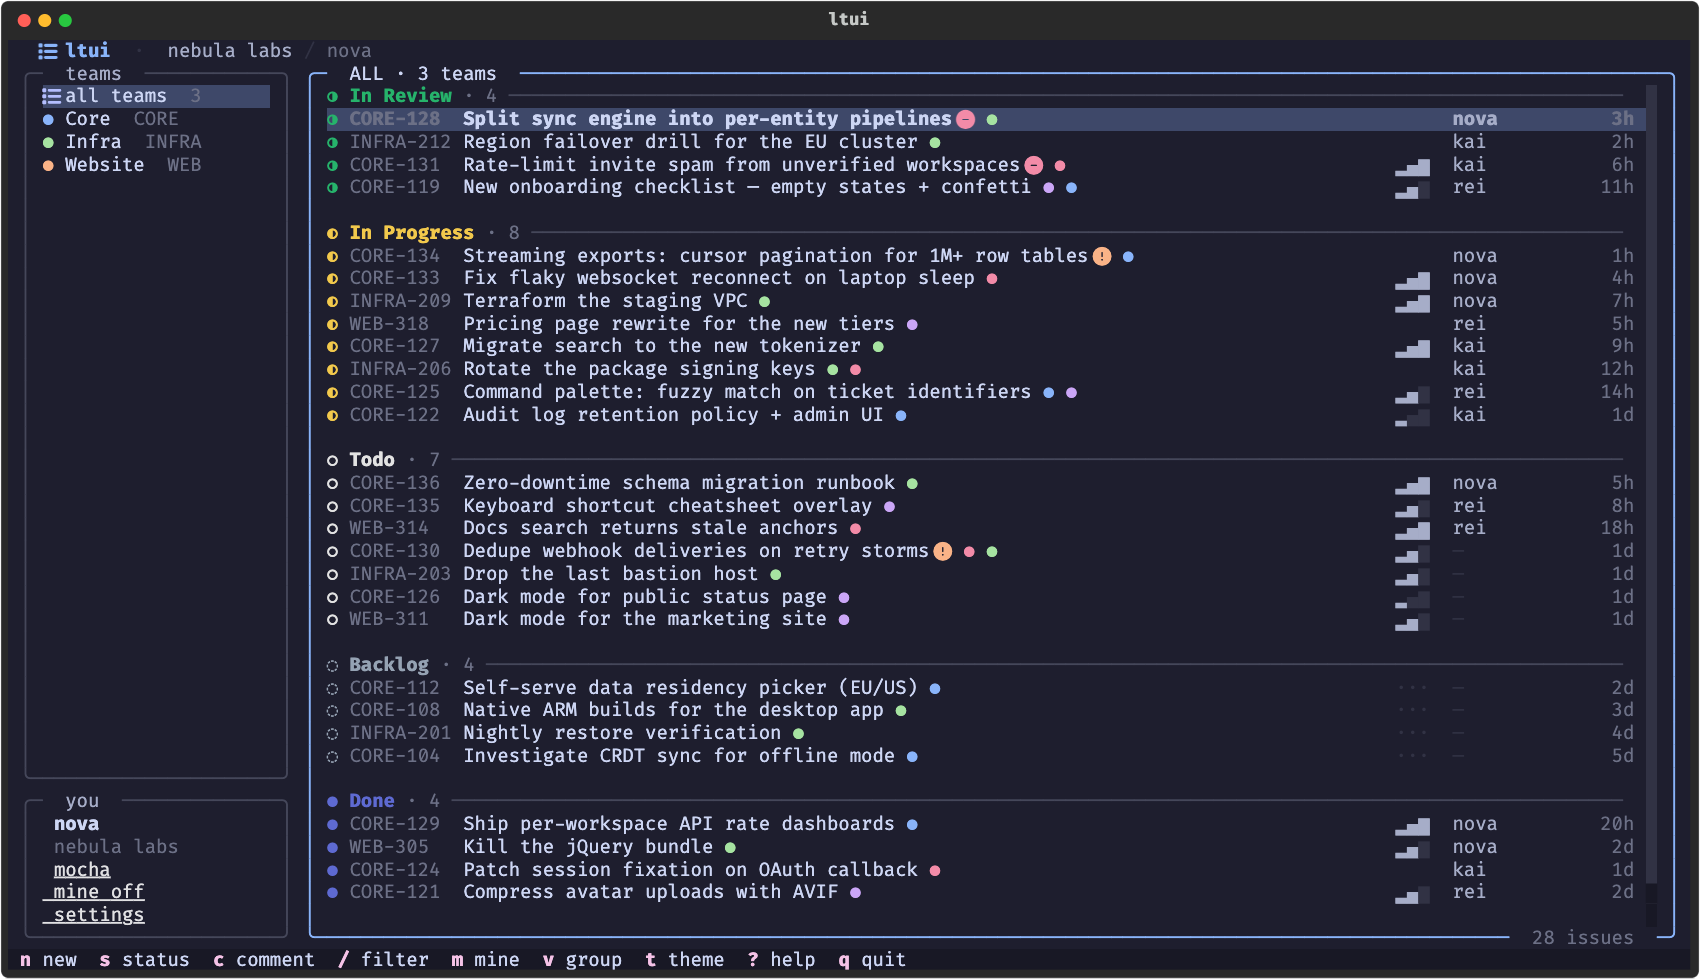
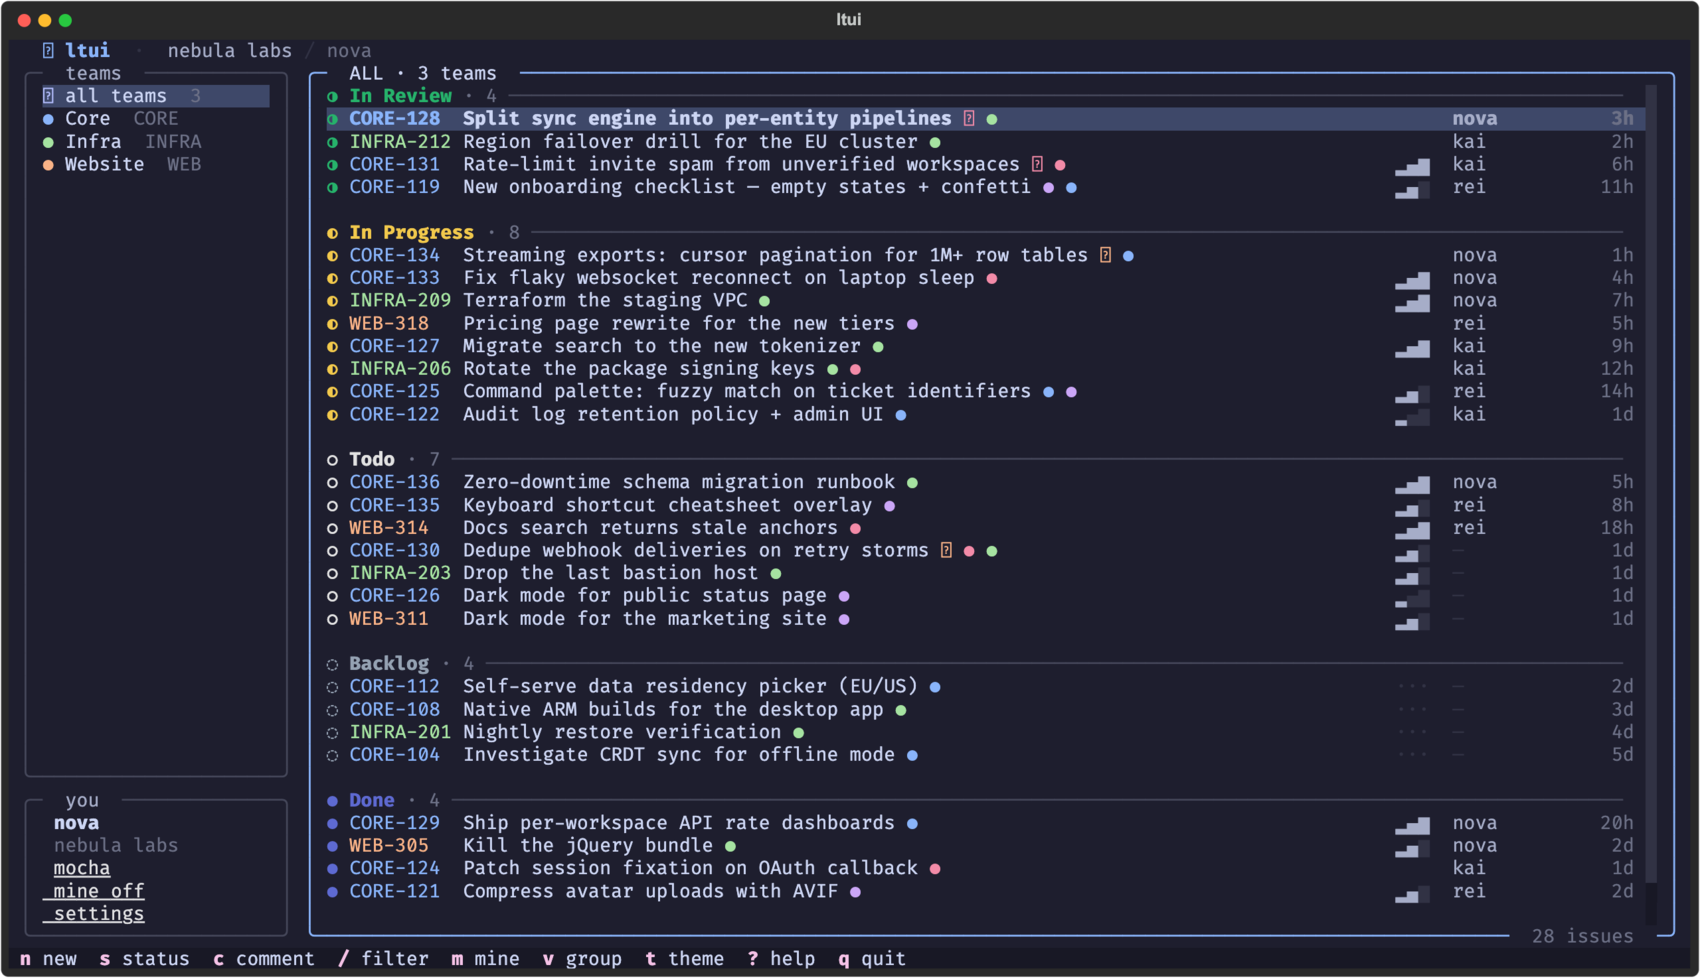
Tint the identifier with its team's colour on the all-teams board
blakejgruber's suggestion from #5, and a better idea than the separate
team chip I had in mind. On a cross-team board the identifier prefix is
already the only thing saying which team a row belongs to, and it does
that job well -- fixed width, left aligned, scans fine -- it just doesn't
separate. 10 of his 24 initiative buckets span more than one team, the
biggest mixing 6 to 8, so this gets exercised hard.

`_stamp_team` already carries `team.color` onto every issue for the
mutation pickers, so colouring the prefix costs no width and no extra
query. It lands the same way on merged status groups, which mix teams
even harder than the initiative buckets do.

Single-team boards keep the dim prefix -- every row would be the same
colour, so it would only be noise. Falls back to dim for a team with no
colour set and for issues off a cache written before issues carried a
team, so no board can end up with a half-tinted column.

Unplanned but welcome: the sidebar already dots each team in its own
colour, so it now reads as a legend for the board.

Regenerated assets/all-teams.png, the one demo shot this changes.

diff --git a/ltui/ltui.py b/ltui/ltui.py
@@ -2420,11 +2420,29 @@ class LTUI(App):
             t.append("─" * fill, style=C_FAINT)
         return t
 
+    def _identifier_style(self, issue: dict) -> str:
+        """What colour an issue's identifier prefix renders in.
+
+        On a board spanning teams the prefix is the only thing saying which
+        team a row belongs to, and an initiative bucket can easily mix six of
+        them. `_stamp_team` already carries the team's own colour onto every
+        issue, so tinting the prefix with it separates those buckets at a
+        glance for no extra width and no extra query.
+
+        Single-team boards keep the dim prefix — every row would be the same
+        colour, so it would only add noise. Falls back to dim for a team with
+        no colour set, and for issues off a cache written before issues
+        carried a team.
+        """
+        if not self._all_teams:
+            return C_DIM
+        return (self._team_of(issue) or {}).get("color") or C_DIM
+
     def _issue_row(self, issue: dict, width: int, id_w: int) -> Text:
         st = issue["state"]
         t = Text(no_wrap=True, overflow="ellipsis")
         t.append(f"{state_icon(st)} ", style=st["color"] or C_SUB)
-        t.append(issue["identifier"].ljust(id_w), style=C_DIM)
+        t.append(issue["identifier"].ljust(id_w), style=self._identifier_style(issue))
         t.append(" ")
 
         assignee = (issue.get("assignee") or {}).get("displayName") or ""
